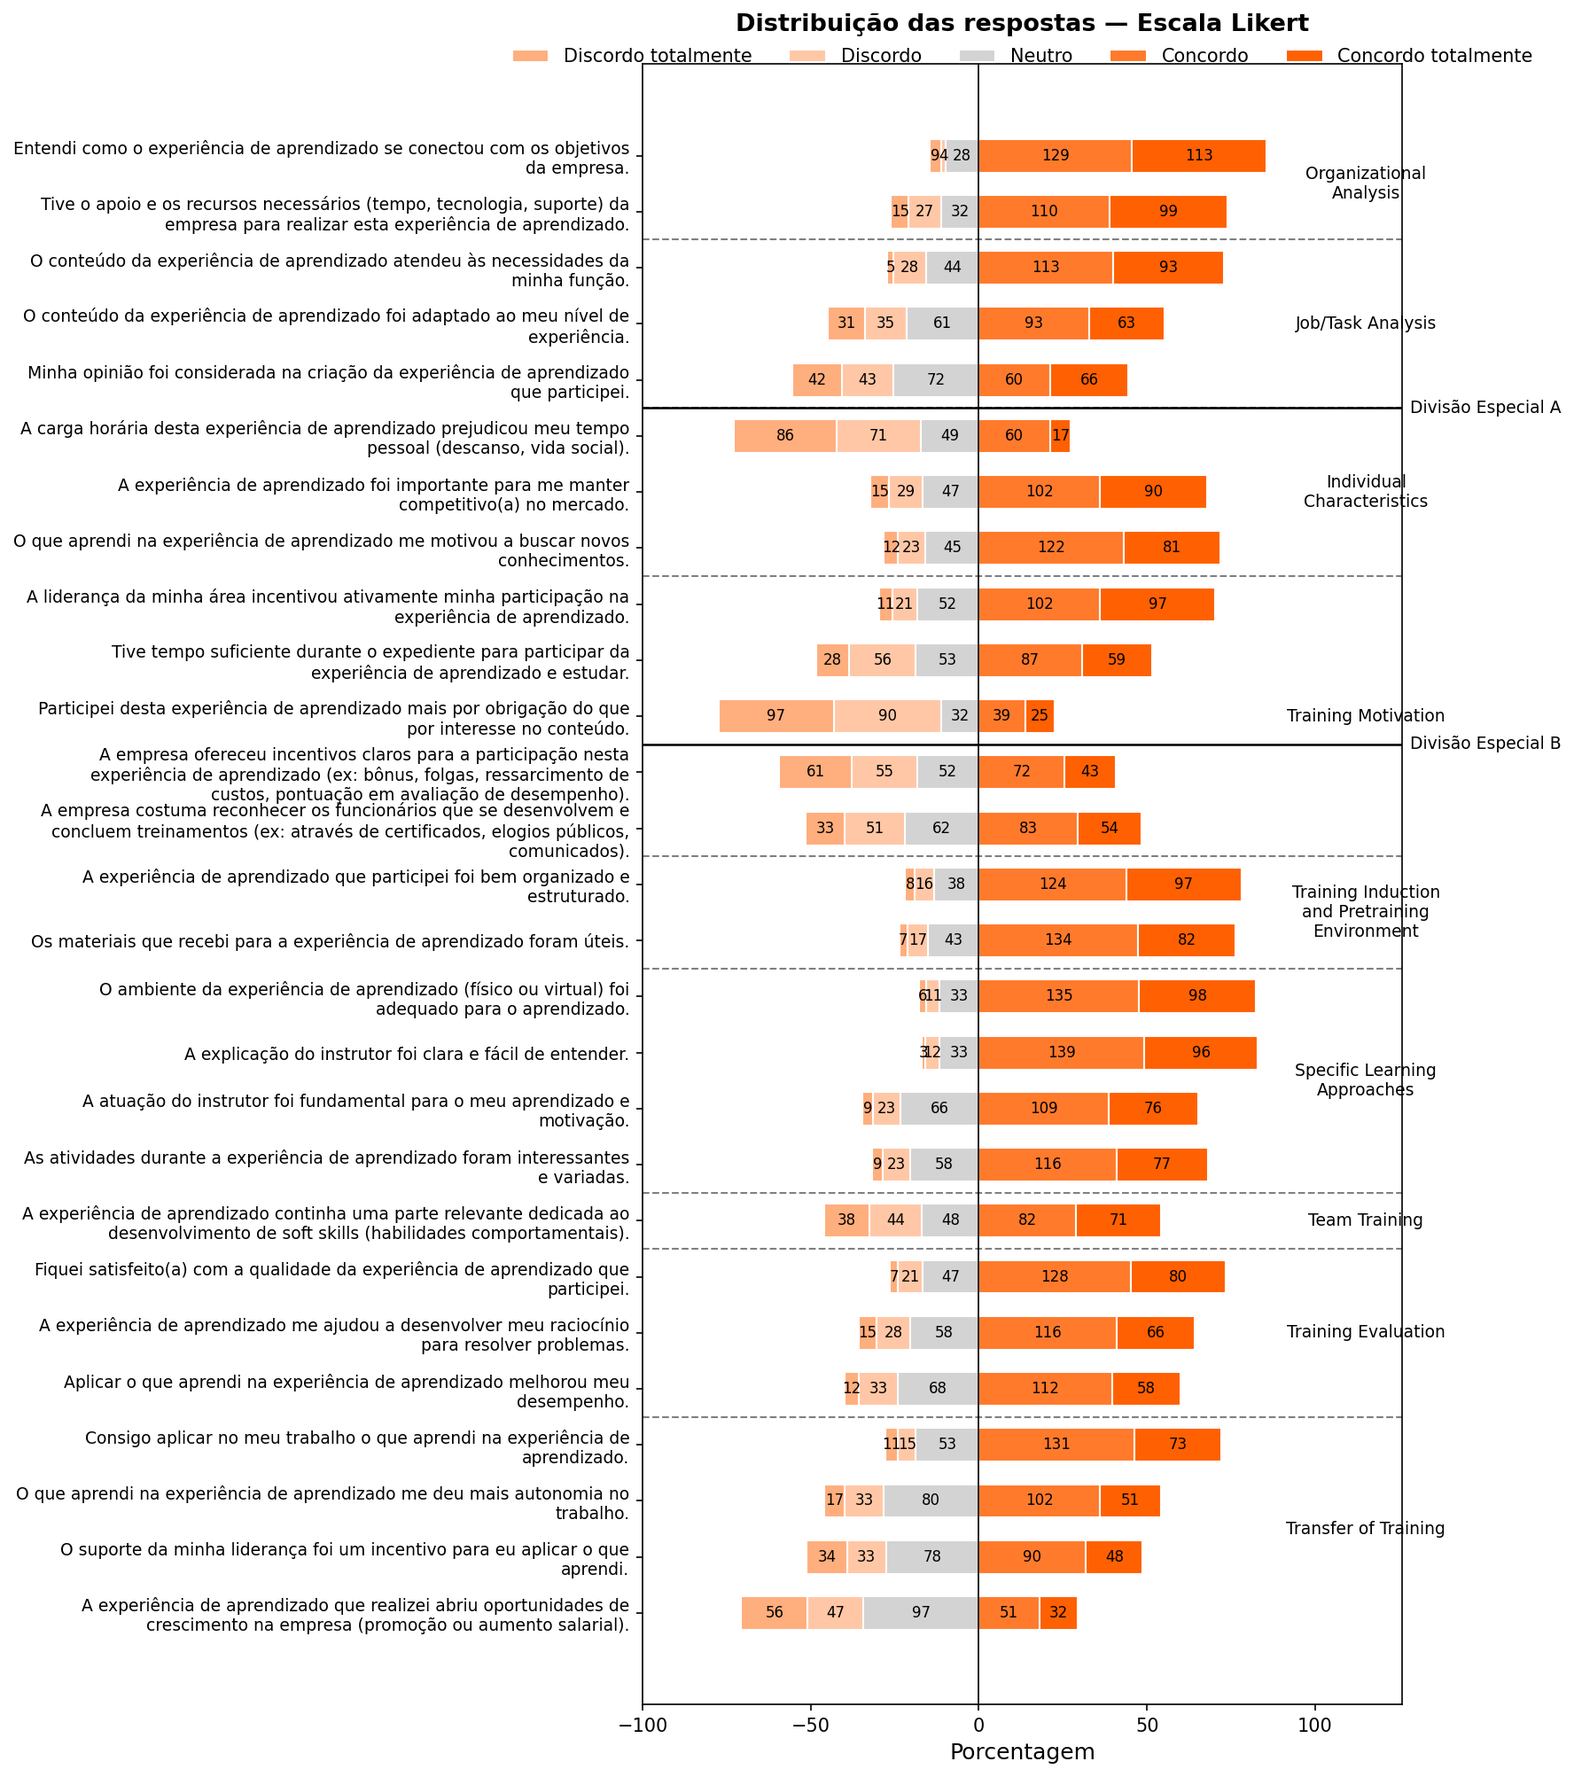
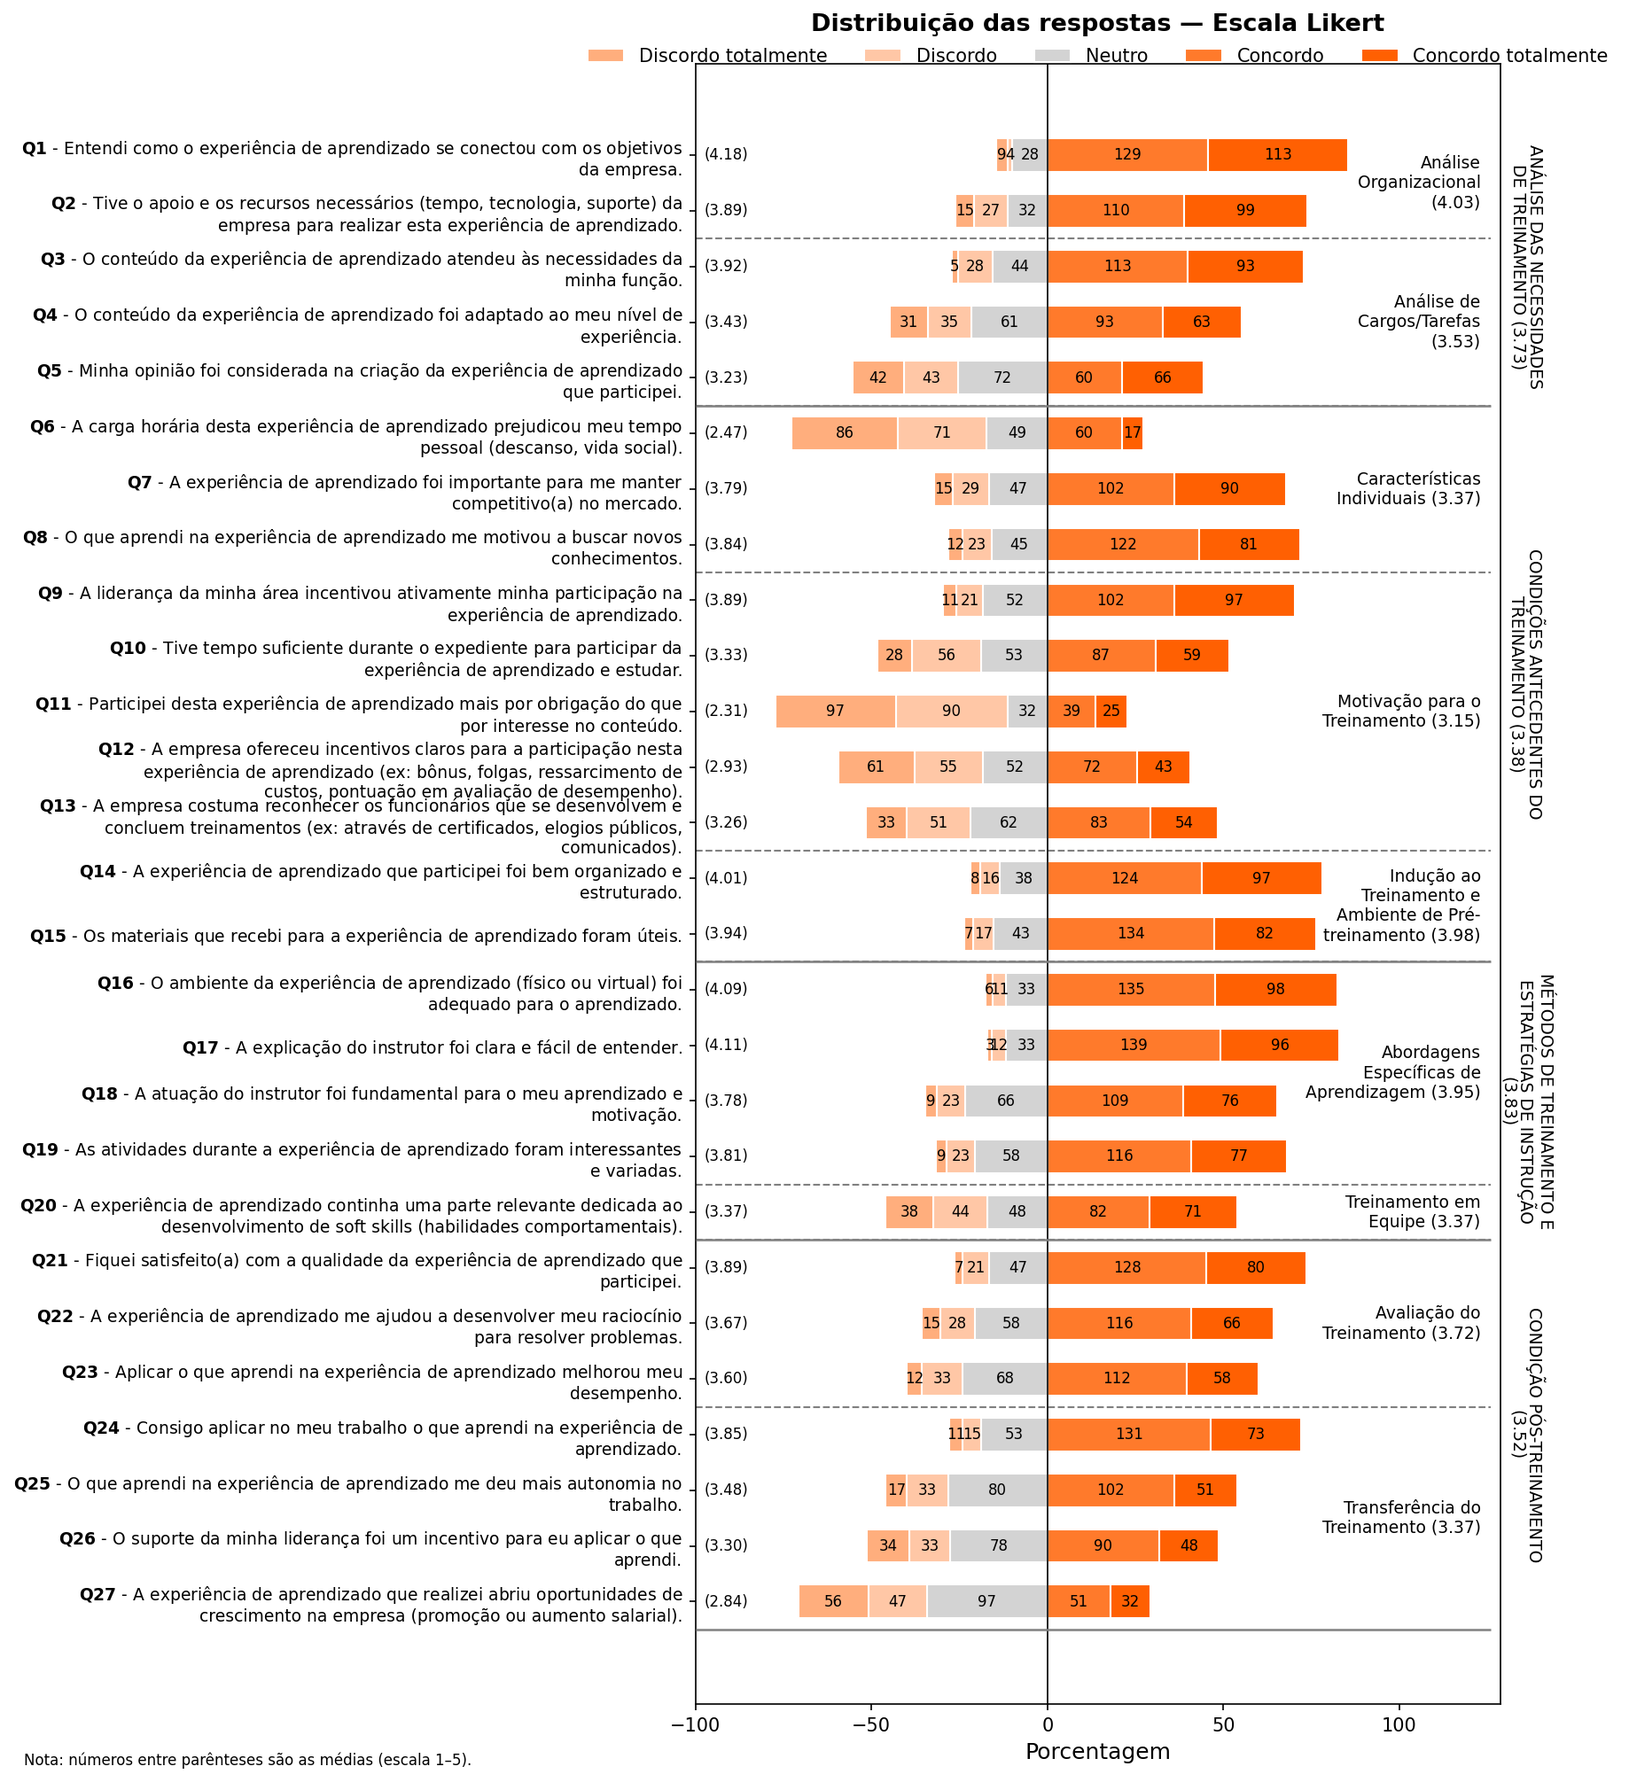
médias na escala likert

diff --git a/questions/likert.py b/questions/likert.py
@@ -22,8 +22,8 @@ BASE_ORANGE = "#ff6002"
 
 
 def add_manual_division_lines(extra_divisions, ax, spans, full_xmin, full_xmax, x_label_pos,
-                               y_positions=None, line_style='-', color='black', linewidth=1.2,
-                               label_pad=0.02, rotate=0, fontsize=9):
+                               y_positions=None, line_style='-', color='gray', linewidth=1.2,
+                               label_pad=0.02, rotate=270, fontsize=9, counts=None, response_order=None):
     """
     Desenha linhas contínuas (solid) no eixo y para cada divisão definida em extra_divisions
     e posiciona um label à direita do rótulo da subcategoria.
@@ -60,21 +60,42 @@ def add_manual_division_lines(extra_divisions, ax, spans, full_xmin, full_xmax, 
         # - se os índices são um intervalo contíguo, usar extremo inicial/final (centro entre eles)
         # - caso contrário, usar média das posições fornecidas
         idxs_sorted = sorted(idxs)
-        # colocar a linha *abaixo* do último item do grupo (não no meio):
+        # colocar a linha *abaixo* do último item do grupo:
         # usa a posição do maior índice + 0.5 (fronteira entre esse item e o próximo)
         try:
-            y_center = float(y_positions[idxs_sorted[-1]]) + 0.5
+            y_line = float(y_positions[idxs_sorted[-1]]) + 0.5
         except Exception:
             # fallback robusto: média + 0.5
-            y_center = (sum([y_positions[i] for i in idxs_sorted]) / len(idxs_sorted)) + 0.5
+            y_line = (sum([y_positions[i] for i in idxs_sorted]) / len(idxs_sorted)) + 0.5
+
+        # posição do rótulo: centralizado verticalmente entre o primeiro e o último item do grupo
+        # (como fazem as subcategorias)
+        try:
+            y_label = (float(y_positions[idxs_sorted[0]]) + float(y_positions[idxs_sorted[-1]])) / 2.0
+        except Exception:
+            y_label = sum([y_positions[i] for i in idxs_sorted]) / len(idxs_sorted)
 
         # desenhar linha contínua atravessando todo o gráfico (cobre area das barras e espaço à direita)
-        ax.hlines(y_center, full_xmin, full_xmax, colors=color, linewidth=linewidth, linestyles=line_style, zorder=3)
+        ax.hlines(y_line, full_xmin, full_xmax, colors='gray', linewidth=linewidth, linestyles=line_style, zorder=3)
 
         # label à direita do label de subcategoria: usar ha='left'
         # colocar o label um pouco à direita do x_label_pos (que normalmente já está à direita dos rótulos)
-        x_label = x_label_pos + label_pad * (full_xmax - full_xmin)
-        ax.text(x_label, y_center, str(label), ha="left", va="center", rotation=rotate,
+        x_label = x_label_pos + label_pad * (full_xmax - full_xmin) + 5
+        
+        # calcular média e adicionar ao label se counts foi fornecido
+        label_display = str(label)
+        if counts is not None and response_order is not None:
+            mean_val = _calculate_likert_mean(idxs_sorted, counts, response_order)
+            if mean_val is not None:
+                label_display = f"{label} ({mean_val:.2f})"
+            print(f"[extra_divisions] {label} (índices {idxs_sorted}): média = {mean_val:.2f}")
+        
+        # quebrar rótulo em múltiplas linhas para melhor encaixe quando rotacionado
+        import textwrap
+        wrapped_label = textwrap.fill(label_display, width=25, break_long_words=True, break_on_hyphens=True)
+          
+        ax.text(x_label, y_label, wrapped_label, ha="center", va="center", rotation=rotate,
+                linespacing=1.0,
                 fontsize=fontsize, color=color, zorder=4, clip_on=False)
 
 
@@ -226,32 +247,15 @@ def analyze_likert(df: pd.DataFrame, out_dir: Optional[Path] = None) -> Dict[str
     ]
 
     manual_divisions = [
-            ("Organizational Analysis", 0, 1),
-            ("Job/Task Analysis", [2,3,4]),
-            ("Individual Characteristics", [5,6,7]),
-            ("Training Motivation", [9,10,11,12]),
-            ("Training Induction and Pretraining Environment", [13,14]),
-            ("Specific Learning Approaches", [15,16,17,18]),
-            ("Simulation-Based Training and Games", [19]),
-            ("Team Training", [20]),
-            ("Training Evaluation", [21,22,23]),
-            ("Transfer of Training", [24,25,26,27]),
-        ]
-    manual_divisions = [
-            # --- BEFORE TRAINING ---
-            ("Organizational Analysis", [0, 1]),
-            ("Job/Task Analysis", [2, 3, 4]),
-            
-            # --- DURING TRAINING ---
-            ("Individual Characteristics", [5, 6, 7]),
-            ("Training Motivation", [8, 9, 10, 11, 12]),
-            ("Training Induction and Pretraining Environment", [13, 14]),
-            ("Specific Learning Approaches", [15, 16, 17, 18]),
-            ("Team Training", [19]),
-            
-            # --- AFTER TRAINING ---
-            ("Training Evaluation", [20, 21, 22]),
-            ("Transfer of Training", [23, 24, 25, 26]),
+            ("Análise Organizacional", [0, 1]),
+            ("Análise de Cargos/Tarefas", [2, 3, 4]),
+            ("Características Individuais", [5, 6, 7]),
+            ("Motivação para o Treinamento", [8, 9, 10, 11, 12]),
+            ("Indução ao Treinamento e Ambiente de Pré-treinamento", [13, 14]),
+            ("Abordagens Específicas de Aprendizagem", [15, 16, 17, 18]),
+            ("Treinamento em Equipe", [19]),
+            ("Avaliação do Treinamento", [20, 21, 22]),
+            ("Transferência do Treinamento", [23, 24, 25, 26]),
         ]
 
     # pergunta a remover explicitamente (se presente)
@@ -499,18 +503,43 @@ def analyze_likert(df: pd.DataFrame, out_dir: Optional[Path] = None) -> Dict[str
         full_xmin, full_xmax = ax.get_xlim()
 
         # definir divisões extras (editar conforme necessário)
+        # Formatos permitidos:
+        #  ("Label", start_idx, end_idx)  -> índices inclusivos (0-based)
+        #  ("Label", [i1, i2, ...])      -> lista explícita de índices
         extra_divisions = [
-            ("Divisão Especial A", [2, 3, 4]),         # lista de índices (ordem do eixo y)
-            ("Divisão Especial B", 8, 10),             # range start..end (inclusivo)
+            ("ANÁLISE DAS NECESSIDADES DE TREINAMENTO", 0, 4),
+            ("CONDIÇÕES ANTECEDENTES DO TREINAMENTO", 5, 14),
+            ("MÉTODOS DE TREINAMENTO E ESTRATÉGIAS DE INSTRUÇÃO", 15, 19),
+            ("CONDIÇÃO PÓS-TREINAMENTO", 20, 26),
         ]
-
+ 
         # desenhar linhas tracejadas para fronteiras entre subcategorias
         for b in sub_boundaries:
             ax.hlines(b, full_xmin, full_xmax, colors="gray", linewidth=1.0, linestyles="--", zorder=2)
 
+        # calcular e imprimir médias das manual_divisions (subcategorias)
+        print("\n[manual_divisions] Médias por subcategoria:")
+        for item in manual_divisions:
+            if len(item) == 3 and isinstance(item[1], int) and isinstance(item[2], int):
+                label, start_i, end_i = item
+                idxs = list(range(max(0, start_i), min(len(percent), end_i) + 1))
+            elif len(item) == 2 and isinstance(item[1], (list, tuple)):
+                label, idxs = item
+                idxs = [k for k in idxs if 0 <= k < len(percent)]
+            else:
+                continue
+
+            if idxs:
+                mean_val = _calculate_likert_mean(sorted(idxs), counts, order)
+                if mean_val is not None:
+                    print(f"  {label} (índices {sorted(idxs)}): média = {mean_val:.2f}")
+                else:
+                    print(f"  {label} (índices {sorted(idxs)}): sem dados")
+
         # agrupar índices por subcategoria para posicionar rótulos verticalmente no lado direito
         from collections import defaultdict
         spans = defaultdict(list)
+
         for idx, sub in enumerate(subs_ordered):
             spans[sub].append(idx)
 
@@ -522,10 +551,11 @@ def analyze_likert(df: pd.DataFrame, out_dir: Optional[Path] = None) -> Dict[str
         y_positions = _np.arange(len(percent))
         add_manual_division_lines(
             extra_divisions, ax, spans, full_xmin, full_xmax,
-            x_label_pos=x_text_base + (xmax - xmin) * 0.06,
+            x_label_pos=x_text_base + (xmax - xmin) * 0.06 + 3,
             y_positions=y_positions, line_style='-', color='black', linewidth=1.2,
-            label_pad=0.01, rotate=0, fontsize=9
-        )
+            label_pad=0.01, rotate=270, fontsize=9,
+            counts=counts, response_order=order
+         )
 
         # DEBUG: imprimir ordem das subcategorias, posições e perguntas correspondentes
         print("Subcategorias (ordem de aparição) e posições:")
@@ -552,12 +582,82 @@ def analyze_likert(df: pd.DataFrame, out_dir: Optional[Path] = None) -> Dict[str
             if not idxs:
                 continue
             y_center = (y_positions[min(idxs)] + y_positions[max(idxs)]) / 2.0
-            wrapped_label = "\n".join(wrap(sub, width=20))
-            ax.text(x_text_base, y_center, wrapped_label, ha="center", va="center", rotation=0,
-                     fontsize=9, color="black", zorder=5)
-
+            # calcular média e adicionar ao label (igual extra_divisions)
+            label_display = str(sub)
+            mean_val = _calculate_likert_mean(sorted(idxs), counts, order)
+            if mean_val is not None:
+                label_display = f"{sub} ({mean_val:.2f})"
+        
+            wrapped_label = "\n".join(wrap(label_display, width=20))
+            ax.text(x_text_base+8, y_center, wrapped_label, ha="right", va="center", rotation=0,
+                    fontsize=9, color="black", zorder=5)
+ 
         # --- fim divisão por subcategorias ---
-         # --- fim divisão por categorias ---
+        # --- fim divisão por categorias ---
+
+        # adicionar nota no rodapé explicando as médias entre parênteses
+        try:
+            fig = ax.get_figure()
+            fig.text(
+                0.02, 0.01,
+                "Nota: números entre parênteses são as médias (escala 1–5).",
+                fontsize=8, ha="left", va="bottom", color="black"
+            )
+        except Exception:
+            # não crítico — seguir sem a anotação se falhar
+            pass
+
+        # --- Anotar média de cada pergunta no lado esquerdo do gráfico ---
+        try:
+            import numpy as _np
+            y_positions_for_bars = _np.arange(len(percent))
+            xmin, xmax = ax.get_xlim()
+            # posicionar médias à esquerda do limite das barras (um pouco para fora)
+            x_mean_left = xmin - (xmax - xmin) * 0.05 + 20
+
+            # mapear respostas para valores 1..5 usando 'order'
+            resp_map = {}
+            if isinstance(order, (list, tuple)) and len(order) >= 5:
+                resp_map = { order[0]: 1, order[1]: 2, order[2]: 3, order[3]: 4, order[4]: 5 }
+
+            for i, qlabel in enumerate(percent.index):
+                # obter linha correspondente em counts: preferir loc por label, fallback iloc
+                row = None
+                try:
+                    if qlabel in counts.index:
+                        row = counts.loc[qlabel]
+                except Exception:
+                    row = None
+                if row is None and i < len(counts):
+                    try:
+                        row = counts.iloc[i]
+                    except Exception:
+                        row = None
+
+                if row is None:
+                    continue
+
+                total_w = 0.0
+                total_n = 0.0
+                for resp_label, val in resp_map.items():
+                    try:
+                        c = float(row.get(resp_label, 0) or 0)
+                    except Exception:
+                        c = 0.0
+                    total_w += val * c
+                    total_n += c
+                if total_n > 0:
+                    mean_val = total_w / total_n
+                    txt = f"({mean_val:.2f})"
+                else:
+                    txt = "-"
+
+                y = float(y_positions_for_bars[i])
+                # alinhar texto à direita para ficar colado ao limite esquerdo
+                ax.text(x_mean_left, y, txt, ha="center", va="center",
+                        fontsize=8, color="black", zorder=10, clip_on=False)
+        except Exception as _e:
+            print("warning: não foi possível anotar médias nas barras:", _e)
 
         # visual tweaks
         ax.axvline(0, color="black", linewidth=0.8)
@@ -567,7 +667,16 @@ def analyze_likert(df: pd.DataFrame, out_dir: Optional[Path] = None) -> Dict[str
 
         ax.set_yticks(range(len(counts)))
         # colocar as perguntas (labels) à esquerda do gráfico
-        ax.set_yticklabels(percent.index, fontsize=9)
+        # ax.set_yticklabels(percent.index, fontsize=9)
+        # adicionar prefixo Q1, Q2, ... em negrito ao lado esquerdo do texto da pergunta
+        prefixed_labels = []
+        for i, lab in enumerate(percent.index):
+            # manter quebras existentes e envolver para exibição
+            wrapped = "\n".join(wrap(str(lab), width=70))
+            # prefixo em negrito usando mathtext (\bf{})
+            prefix = f"$\\bf{{Q{i+1}}}$"
+            prefixed_labels.append(f"{prefix} - {wrapped}")
+        ax.set_yticklabels(prefixed_labels, fontsize=9)
         ax.yaxis.tick_left()
         ax.tick_params(axis="y", which="both", left=True, labelleft=True, right=False, labelright=False)
         ax.invert_yaxis()
@@ -601,6 +710,98 @@ def analyze_likert(df: pd.DataFrame, out_dir: Optional[Path] = None) -> Dict[str
         "image": image_path,
     }
 
+def _calculate_likert_mean(idxs, counts, order):
+    """
+    Calcula a média da escala Likert para um grupo de perguntas.
+    idxs: lista de índices das perguntas
+    counts: DataFrame com contagens por resposta
+    order: lista de respostas na ordem da escala (ex: ["Discordo totalmente", ..., "Concordo totalmente"])
+    
+    Retorna: média numérica (1-5) ou None se não houver dados
+    """
+    if not idxs:
+        return None
+    
+    # mapear respostas para valores numéricos (1-5)
+    response_values = {
+        order[0]: 1,  # Discordo totalmente
+        order[1]: 2,  # Discordo
+        order[2]: 3,  # Neutro
+        order[3]: 4,  # Concordo
+        order[4]: 5,  # Concordo totalmente
+    }
+    
+    total_weighted = 0
+    total_count = 0
+    
+    for idx in idxs:
+        if idx < len(counts):
+            row = counts.iloc[idx]
+            for response in order:
+                count = row.get(response, 0)
+                if count > 0:
+                    value = response_values.get(response, 3)
+                    total_weighted += value * count
+                    total_count += count
+    
+    if total_count > 0:
+        return total_weighted / total_count
+    return None
+
+def _calculate_likert_mean_for_group(idxs: List[int], counts_df, order, percent_index):
+    """
+    Calcula média para um grupo de perguntas.
+    - idxs: índices (0-based) relativos à ordem exibida (percent.index)
+    - counts_df: DataFrame de contagens (linhas = perguntas, colunas = respostas)
+    - order: lista com rótulos das respostas na ordem da escala (1..5)
+    - percent_index: Index com os rótulos das perguntas (na mesma ordem mostrada)
+    Retorna float média ou None.
+    """
+    if not idxs:
+        return None
+    # criar mapa de valor numérico para cada rótulo de resposta
+    if not isinstance(order, (list, tuple)) or len(order) < 5:
+        return None
+    resp_map = { order[0]: 1, order[1]: 2, order[2]: 3, order[3]: 4, order[4]: 5 }
+
+    total_w = 0.0
+    total_n = 0.0
+    for idx in idxs:
+        if idx < 0 or idx >= len(percent_index):
+            continue
+        qlabel = percent_index[idx]
+        # tentar obter linha correspondente em counts_df pelo label, senão por posição
+        row = None
+        try:
+            if qlabel in counts_df.index:
+                row = counts_df.loc[qlabel]
+        except Exception:
+            row = None
+        if row is None:
+            try:
+                row = counts_df.iloc[idx]
+            except Exception:
+                row = None
+        if row is None:
+            continue
+        for resp_label, val in resp_map.items():
+            try:
+                c = float(row.get(resp_label, 0) or 0)
+            except Exception:
+                c = 0.0
+            total_w += val * c
+            total_n += c
+
+    if total_n > 0:
+        return total_w / total_n
+    return None
+
+# --- substituir chamadas existentes para usar a nova função ---
+# Exemplo: onde antes chamava _calculate_likert_mean(sorted(idxs), counts, order)
+# troque por:
+#    mean_val = _calculate_likert_mean_for_group(sorted(idxs), counts, order, percent.index)
+# E para manual_divisions debug/print use o mesmo.
+# ...existing code...
 if __name__ == "__main__":
     import os
     import sys
